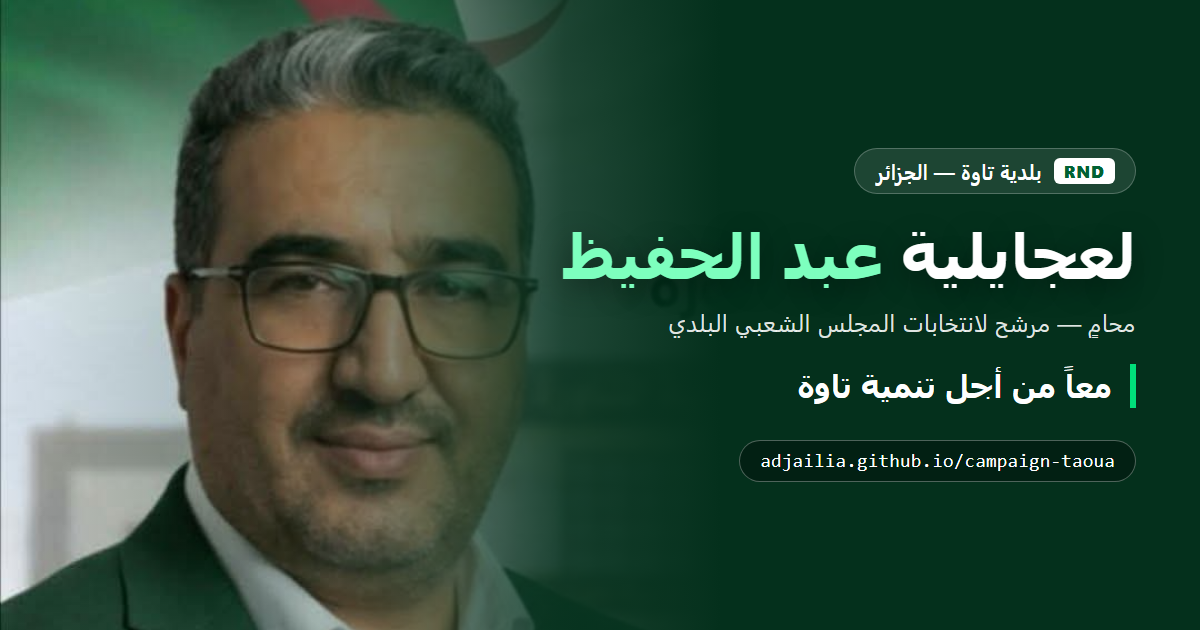
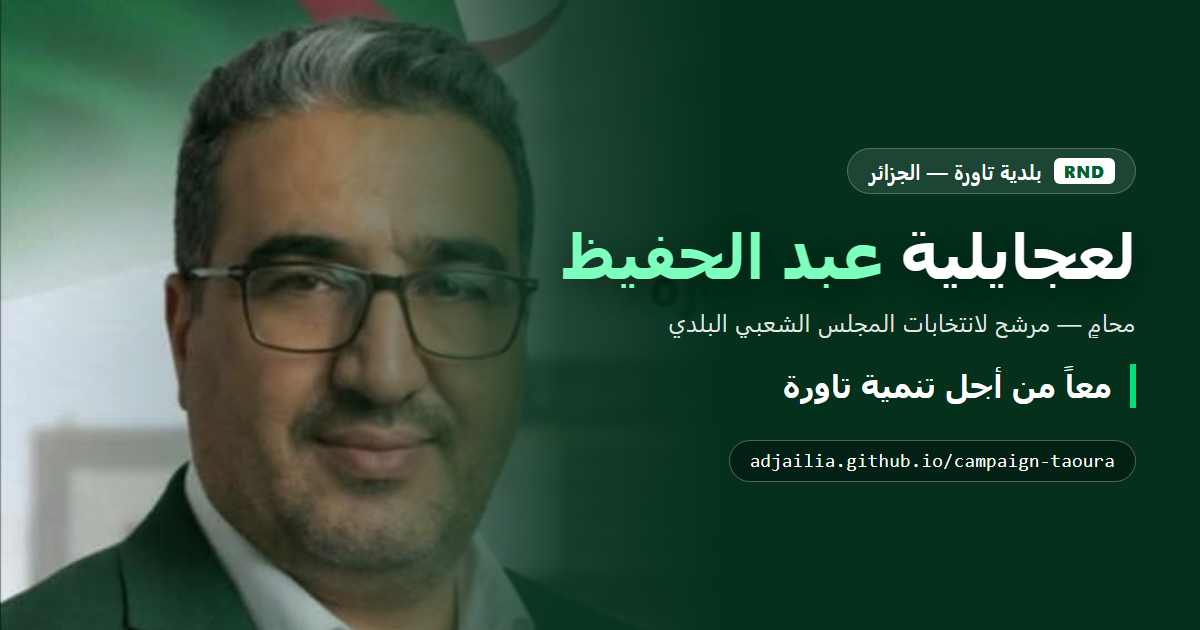
refactor: إعادة تسمية تاوة إلى تاورة وtaoua إلى taoura (مستودع، رابط النشر، المحتوى)

Changed region(s): [[0.6167, 0.7238, 0.925, 0.754], [0.7092, 0.2413, 0.8325, 0.3016], [0.6475, 0.6032, 0.6783, 0.6333]]

diff --git a/index.html b/index.html
@@ -4,38 +4,38 @@
   <meta charset="UTF-8">
   <meta name="viewport" content="width=device-width, initial-scale=1">
 
-  <title>لعجايلية عبد الحفيظ | مرشح بلدية تاوة</title>
-  <meta name="description" content="لعجايلية عبد الحفيظ، محامٍ ومرشح لانتخابات المجلس الشعبي البلدي ببلدية تاوة. تعرّف على البرنامج الانتخابي وانضم إلى الحملة.">
+  <title>لعجايلية عبد الحفيظ | مرشح بلدية تاورة</title>
+  <meta name="description" content="لعجايلية عبد الحفيظ، محامٍ ومرشح لانتخابات المجلس الشعبي البلدي ببلدية تاورة. تعرّف على البرنامج الانتخابي وانضم إلى الحملة.">
   <meta name="author" content="حملة لعجايلية عبد الحفيظ">
   <meta name="theme-color" content="#006233" id="meta-theme-color">
 
   <!-- مشاركة الروابط على الشبكات الاجتماعية -->
   <meta property="og:type" content="website">
   <meta property="og:locale" content="ar_DZ">
-  <meta property="og:title" content="لعجايلية عبد الحفيظ | مرشح بلدية تاوة">
-  <meta property="og:description" content="معاً من أجل تنمية تاوة — برنامج انتخابي عملي لبلدية ذكية، شبابية ومستدامة.">
-  <meta property="og:url" content="https://adjailia.github.io/campaign-taoua/">
+  <meta property="og:title" content="لعجايلية عبد الحفيظ | مرشح بلدية تاورة">
+  <meta property="og:description" content="معاً من أجل تنمية تاورة — برنامج انتخابي عملي لبلدية ذكية، شبابية ومستدامة.">
+  <meta property="og:url" content="https://adjailia.github.io/campaign-taoura/">
   <meta property="og:site_name" content="حملة لعجايلية عبد الحفيظ">
-  <meta property="og:image" content="https://adjailia.github.io/campaign-taoua/assets/img/og-cover.png?v=2">
-  <meta property="og:image:secure_url" content="https://adjailia.github.io/campaign-taoua/assets/img/og-cover.png?v=2">
+  <meta property="og:image" content="https://adjailia.github.io/campaign-taoura/assets/img/og-cover.png?v=4">
+  <meta property="og:image:secure_url" content="https://adjailia.github.io/campaign-taoura/assets/img/og-cover.png?v=4">
   <meta property="og:image:type" content="image/png">
   <meta property="og:image:width" content="1200">
   <meta property="og:image:height" content="630">
-  <meta property="og:image:alt" content="لعجايلية عبد الحفيظ — مرشح بلدية تاوة">
+  <meta property="og:image:alt" content="لعجايلية عبد الحفيظ — مرشح بلدية تاورة">
   <meta name="twitter:card" content="summary_large_image">
-  <meta name="twitter:title" content="لعجايلية عبد الحفيظ | مرشح بلدية تاوة">
-  <meta name="twitter:description" content="معاً من أجل تنمية تاوة — برنامج انتخابي عملي لبلدية ذكية، شبابية ومستدامة.">
-  <meta name="twitter:image" content="https://adjailia.github.io/campaign-taoua/assets/img/og-cover.png?v=2">
+  <meta name="twitter:title" content="لعجايلية عبد الحفيظ | مرشح بلدية تاورة">
+  <meta name="twitter:description" content="معاً من أجل تنمية تاورة — برنامج انتخابي عملي لبلدية ذكية، شبابية ومستدامة.">
+  <meta name="twitter:image" content="https://adjailia.github.io/campaign-taoura/assets/img/og-cover.png?v=4">
 
   <link rel="icon" href="assets/img/favicon.svg" type="image/svg+xml">
-  <link rel="stylesheet" href="assets/css/styles.css?v=3">
+  <link rel="stylesheet" href="assets/css/styles.css?v=4">
 
   <!-- تطبيق الوضع المحفوظ قبل الرسم لتفادي وميض الألوان -->
   <script>
     (function () {
       document.documentElement.classList.add("js");
       try {
-        var saved = localStorage.getItem("taoua-theme");
+        var saved = localStorage.getItem("taoura-theme");
         var system = window.matchMedia("(prefers-color-scheme: dark)").matches ? "dark" : "light";
         document.documentElement.setAttribute("data-theme", saved === "dark" || saved === "light" ? saved : system);
       } catch (error) {
@@ -118,7 +118,7 @@
         <span class="brand-mark" aria-hidden="true" data-site="party_short">RND</span>
         <span class="brand-text">
           <strong data-site="party">حزب التجمع الوطني الديمقراطي</strong>
-          <small data-site="municipality">بلدية تاوة</small>
+          <small data-site="municipality">بلدية تاورة</small>
         </span>
       </a>
 
@@ -149,15 +149,15 @@
       <div class="wrap hero-grid">
         <div class="hero-copy reveal">
           <span class="badge" data-site="badge">جيل جديد.. رؤية رقمية</span>
-          <p class="eyebrow" data-site="election">انتخابات المجلس الشعبي البلدي — بلدية تاوة</p>
+          <p class="eyebrow" data-site="election">انتخابات المجلس الشعبي البلدي — بلدية تاورة</p>
 
           <h1 id="hero-title">لعجايلية <span>عبد الحفيظ</span></h1>
 
           <p class="role">
-            <span data-site="role">محامٍ</span> · <span data-site="municipality">بلدية تاوة</span>
+            <span data-site="role">محامٍ</span> · <span data-site="municipality">بلدية تاورة</span>
           </p>
 
-          <p class="slogan" data-site="slogan">معاً من أجل تنمية تاوة</p>
+          <p class="slogan" data-site="slogan">معاً من أجل تنمية تاورة</p>
 
           <p class="tagline" data-site="tagline">
             نحو بلدية ذكية، شبابية ومستدامة. صوتك هو خطوتنا الأولى نحو المستقبل.
@@ -172,7 +172,7 @@
         <figure class="hero-figure reveal">
           <div class="figure-frame">
             <img src="assets/img/abdhafid.jpeg"
-                 alt="ملصق حملة لعجايلية عبد الحفيظ — مرشح بلدية تاوة" width="1080" height="1454">
+                 alt="ملصق حملة لعجايلية عبد الحفيظ — مرشح بلدية تاورة" width="1080" height="1454">
           </div>
         </figure>
       </div>
@@ -338,7 +338,7 @@
     <div class="wrap footer-inner">
       <div>
         <p class="footer-title">حملة انتخابية — لعجايلية عبد الحفيظ</p>
-        <p><span data-site="party">حزب التجمع الوطني الديمقراطي (RND)</span> · <span data-site="municipality">بلدية تاوة</span></p>
+        <p><span data-site="party">حزب التجمع الوطني الديمقراطي (RND)</span> · <span data-site="municipality">بلدية تاورة</span></p>
       </div>
       <p>© <span id="year">2026</span> جميع الحقوق محفوظة</p>
     </div>
@@ -350,7 +350,7 @@
     </div>
   </noscript>
 
-  <script src="assets/js/markdown.js?v=3"></script>
-  <script src="assets/js/app.js?v=3"></script>
+  <script src="assets/js/markdown.js?v=4"></script>
+  <script src="assets/js/app.js?v=4"></script>
 </body>
 </html>

diff --git a/archive/deepseek_html_20261108_254b13.html b/archive/deepseek_html_20261108_254b13.html
@@ -3,7 +3,7 @@
 <head>
     <meta charset="UTF-8">
     <meta name="viewport" content="width=device-width, initial-scale=1.0">
-    <title>لعجايلية عبد الحفيظ - مرشح بلدية تاوة</title>
+    <title>لعجايلية عبد الحفيظ - مرشح بلدية تاورة</title>
     <style>
         /* إعدادات عامة */
         :root {
@@ -223,19 +223,19 @@
             <h1>حزب التجمع الوطني الديمقراطي</h1>
         </div>
         <div>
-            <strong>بلدية تاوة</strong>
+            <strong>بلدية تاورة</strong>
         </div>
     </header>
 
     <!-- القسم الرئيسي -->
     <section class="hero">
         <div class="hero-text">
-            <h3>مرشحكم لبلدية تاوة</h3>
+            <h3>مرشحكم لبلدية تاورة</h3>
             <h2>لعجايلية عبد الحفيظ</h2>
             <p style="color: #666; margin-bottom: 20px;">محامي</p>
-            <div class="slogan">معاً من أجل تنمية تاوة</div>
+            <div class="slogan">معاً من أجل تنمية تاورة</div>
             <p style="margin-bottom: 30px; font-size: 1.1rem;">
-                انتخابات المجلس الشعبي البلدي - بلدية تاوة. <br>
+                انتخابات المجلس الشعبي البلدي - بلدية تاورة. <br>
                 صوتكم أمانة، ونعدكم بالعمل الجاد من أجل مستقبل أفضل لبلديتنا.
             </p>
             <a href="#contact" class="cta-btn">انضم إلى الحملة</a>
@@ -252,7 +252,7 @@
         <div class="cards-container">
             <div class="card">
                 <h4>تطوير البنية التحتية</h4>
-                <p>تحسين الطرقات، الإنارة العمومية، وتوفير المرافق الأساسية في مختلف أحياء بلدية تاوة.</p>
+                <p>تحسين الطرقات، الإنارة العمومية، وتوفير المرافق الأساسية في مختلف أحياء بلدية تاورة.</p>
             </div>
             <div class="card">
                 <h4>دعم الشباب والرياضة</h4>
@@ -268,7 +268,7 @@
     <!-- الفوتر -->
     <footer>
         <p>حملة انتخابية: لعجايلية عبد الحفيظ - RND</p>
-        <p>انتخابات المجلس الشعبي البلدي - بلدية تاوة</p>
+        <p>انتخابات المجلس الشعبي البلدي - بلدية تاورة</p>
         <p>© 2024 جميع الحقوق محفوظة</p>
     </footer>
 

diff --git a/archive/deepseek_html_20261108_a15215.html b/archive/deepseek_html_20261108_a15215.html
@@ -3,7 +3,7 @@
 <head>
     <meta charset="UTF-8">
     <meta name="viewport" content="width=device-width, initial-scale=1.0">
-    <title>لعجايلية عبد الحفيظ | جيل رقمي لبلدية تاوة</title>
+    <title>لعجايلية عبد الحفيظ | جيل رقمي لبلدية تاورة</title>
     <!-- خط Tajawal الحديث -->
     <link href="https://fonts.googleapis.com/css2?family=Tajawal:wght@400;700;900&display=swap" rel="stylesheet">
     <!-- أيقونات FontAwesome -->
@@ -347,7 +347,7 @@
     <!-- شريط التنقل مع العداد -->
     <header>
         <div class="logo">
-            <span>RND</span> | بلدية تاوة
+            <span>RND</span> | بلدية تاورة
         </div>
         <div class="counter-box">
             <i class="fas fa-vote-yea"></i>
@@ -360,8 +360,8 @@
         <div class="hero-text">
             <span class="badge">جيل جديد.. رؤية رقمية</span>
             <h1>لعجايلية <span>عبد الحفيظ</span></h1>
-            <h2>مرشحكم لبلدية تاوة - محامي</h2>
-            <div class="slogan">معاً من أجل تنمية رقمية لتاوة</div>
+            <h2>مرشحكم لبلدية تاورة - محامي</h2>
+            <div class="slogan">معاً من أجل تنمية رقمية لتاورة</div>
             <p style="color: var(--text-muted); margin-bottom: 30px;">نحو بلدية ذكية، شبابية، ومستدامة. صوتك هو خطوتنا الأولى نحو المستقبل.</p>
             <a href="#join" class="btn-primary">انضم للحملة الآن</a>
         </div>

diff --git a/assets/js/app.js b/assets/js/app.js
@@ -5,8 +5,8 @@
 (function () {
   "use strict";
 
-  var THEME_KEY = "taoua-theme";
-  var STORE_KEY = "taoua-submissions";
+  var THEME_KEY = "taoura-theme";
+  var STORE_KEY = "taoura-submissions";
   var DATA = {
     site: "data/site.md",
     program: "data/program.md",
@@ -567,10 +567,10 @@
   }
 
   /* ---------------- عدّاد المنضمين إلى الحملة ---------------- */
-  var JOINERS_CACHE = "taoua-joiners";
-  var JOINERS_SEEN = "taoua-joiners-seen-at";
+  var JOINERS_CACHE = "taoura-joiners";
+  var JOINERS_SEEN = "taoura-joiners-seen-at";
   var JOINERS_WINDOW = 5 * 60 * 1000; /* نافذة 5 دقائق: التحديث داخلها لا يُحسب زيارة جديدة */
-  var JOINERS_API = "https://abacus.jasoncameron.dev/hit/adjailia-campaign-taoua/joiners";
+  var JOINERS_API = "https://abacus.jasoncameron.dev/hit/adjailia-campaign-taoura/joiners";
 
   function readSeenAt() {
     var value = 0;

diff --git a/tools/og-cover.html b/tools/og-cover.html
@@ -120,11 +120,11 @@
     <div class="veil"></div>
 
     <div class="copy">
-      <div class="brand"><b>RND</b> بلدية تاوة — الجزائر</div>
+      <div class="brand"><b>RND</b> بلدية تاورة — الجزائر</div>
       <h1>لعجايلية <span>عبد الحفيظ</span></h1>
       <div class="role">محامٍ — مرشح لانتخابات المجلس الشعبي البلدي</div>
-      <div class="slogan">معاً من أجل تنمية تاوة</div>
-      <div class="url">adjailia.github.io/campaign-taoua</div>
+      <div class="slogan">معاً من أجل تنمية تاورة</div>
+      <div class="url">adjailia.github.io/campaign-taoura</div>
     </div>
   </div>
 </body>

diff --git a/assets/css/styles.css b/assets/css/styles.css
@@ -1,5 +1,5 @@
 /* =========================================================
-   حملة لعجايلية عبد الحفيظ — بلدية تاوة
+   حملة لعجايلية عبد الحفيظ — بلدية تاورة
    أنماط مشتركة: الوضع النهاري والليلي
    ========================================================= */
 

diff --git a/README.md b/README.md
@@ -1,4 +1,4 @@
-# حملة لعجايلية عبد الحفيظ — بلدية تاوة
+# حملة لعجايلية عبد الحفيظ — بلدية تاورة
 
 صفحة حملة انتخابية واحدة (Landing Page) مبنية بـ HTML/CSS/JavaScript خالص، بلا أي إطار عمل
 وبلا اعتماد على مكتبات خارجية. المحتوى يُقرأ من ملفات **Markdown** داخل مجلد `data/`،
@@ -49,10 +49,10 @@ title_highlight: عبد الحفيظ       # الجزء الملوّن من ال
 role: محامٍ
 party: حزب التجمع الوطني الديمقراطي
 party_short: RND
-municipality: بلدية تاوة
-election: انتخابات المجلس الشعبي البلدي — بلدية تاوة
+municipality: بلدية تاورة
+election: انتخابات المجلس الشعبي البلدي — بلدية تاورة
 badge: جيل جديد.. رؤية رقمية
-slogan: معاً من أجل تنمية تاوة
+slogan: معاً من أجل تنمية تاورة
 tagline: جملة تعريفية قصيرة
 cta_primary: انضم إلى الحملة
 cta_secondary: البرنامج الانتخابي
@@ -78,7 +78,7 @@ form_endpoint: ""                # اتركه فارغاً للوضع التجر
 phone: "0550 00 00 00"
 whatsapp: "+213 550 00 00 00"
 email: "campagne@example.com"
-address: "مقر الحملة، وسط بلدية تاوة"
+address: "مقر الحملة، وسط بلدية تاورة"
 facebook: "https://www.facebook.com/votre-page"
 tiktok: "https://www.tiktok.com/@votre-compte"
 instagram: "https://www.instagram.com/votre-compte"
@@ -94,7 +94,7 @@ instagram: "https://www.instagram.com/votre-compte"
 
 ```html
 <img src="assets/img/abdhafid.jpeg"
-     alt="ملصق حملة لعجايلية عبد الحفيظ — مرشح بلدية تاوة" width="1080" height="1454">
+     alt="ملصق حملة لعجايلية عبد الحفيظ — مرشح بلدية تاورة" width="1080" height="1454">
 ```
 
 > مجلد `imag/` في الجذر هو مجلد الصور المصدرية، وهو مستثنى من Git.
@@ -115,7 +115,7 @@ instagram: "https://www.instagram.com/votre-compte"
 
 بعد أي تغيير في البطاقة، غيّر `?v=2` في وسوم `og:image` داخل `index.html` لكسر تخزين فيسبوك المؤقت.
 
-**مهم:** شارك رابط الصفحة `https://adjailia.github.io/campaign-taoua/` وليس ملف الصورة.
+**مهم:** شارك رابط الصفحة `https://adjailia.github.io/campaign-taoura/` وليس ملف الصورة.
 إرسال الصورة كملف لا يمكن أن يفتح الموقع — الصورة ليست رابطاً.
 
 ---

diff --git a/data/program.md b/data/program.md
@@ -5,7 +5,7 @@ subtitle: ستة محاور عملية نضعها أمام المواطن، قا
 
 ## [road] بنية تحتية حديثة
 
-تحسين الطرقات والإنارة العمومية، وتوفير المرافق الأساسية في مختلف أحياء بلدية تاوة، مع تحديث شبكات الإنارة بالطاقة الشمسية.
+تحسين الطرقات والإنارة العمومية، وتوفير المرافق الأساسية في مختلف أحياء بلدية تاورة، مع تحديث شبكات الإنارة بالطاقة الشمسية.
 
 ## [network] بلدية ذكية
 

diff --git a/data/contact.md b/data/contact.md
@@ -4,7 +4,7 @@ subtitle: لأي استفسار أو اقتراح، أو للانضمام إلى
 phone: "0550 00 00 00"
 whatsapp: "+213 550 00 00 00"
 email: "campagne@example.com"
-address: "مقر الحملة، وسط بلدية تاوة"
+address: "مقر الحملة، وسط بلدية تاورة"
 facebook: "https://www.facebook.com/"
 tiktok: "https://www.tiktok.com/"
 instagram: "https://www.instagram.com/"
